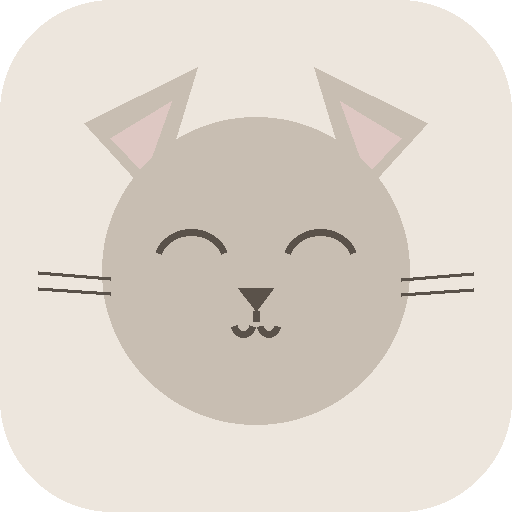
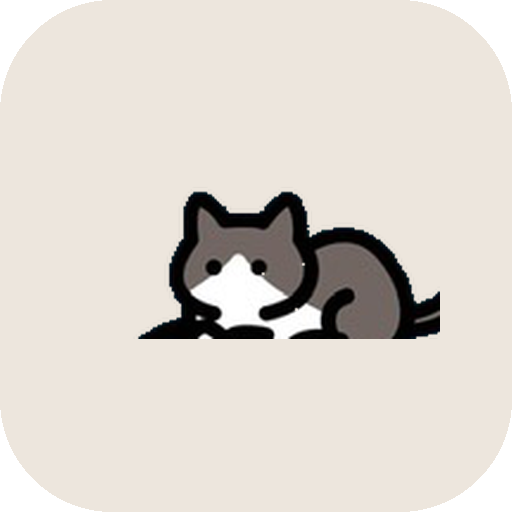
feat: 換上真實貓咪照片裁切的 App 圖示，取代佔位圖

diff --git a/sw.js b/sw.js
@@ -1,4 +1,4 @@
-const CACHE_NAME = 'habit-tracker-v1';
+const CACHE_NAME = 'habit-tracker-v2';
 const ASSETS = [
   './index.html',
   './manifest.json',